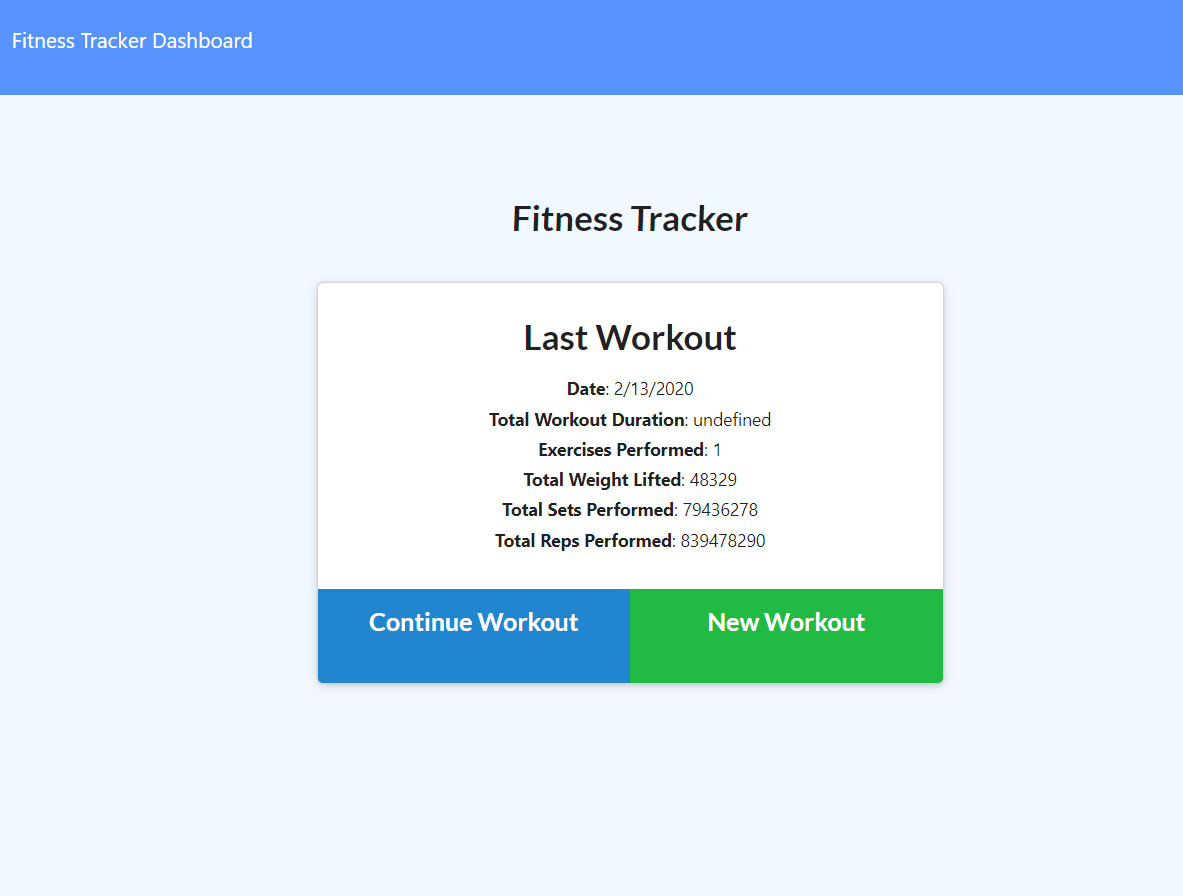
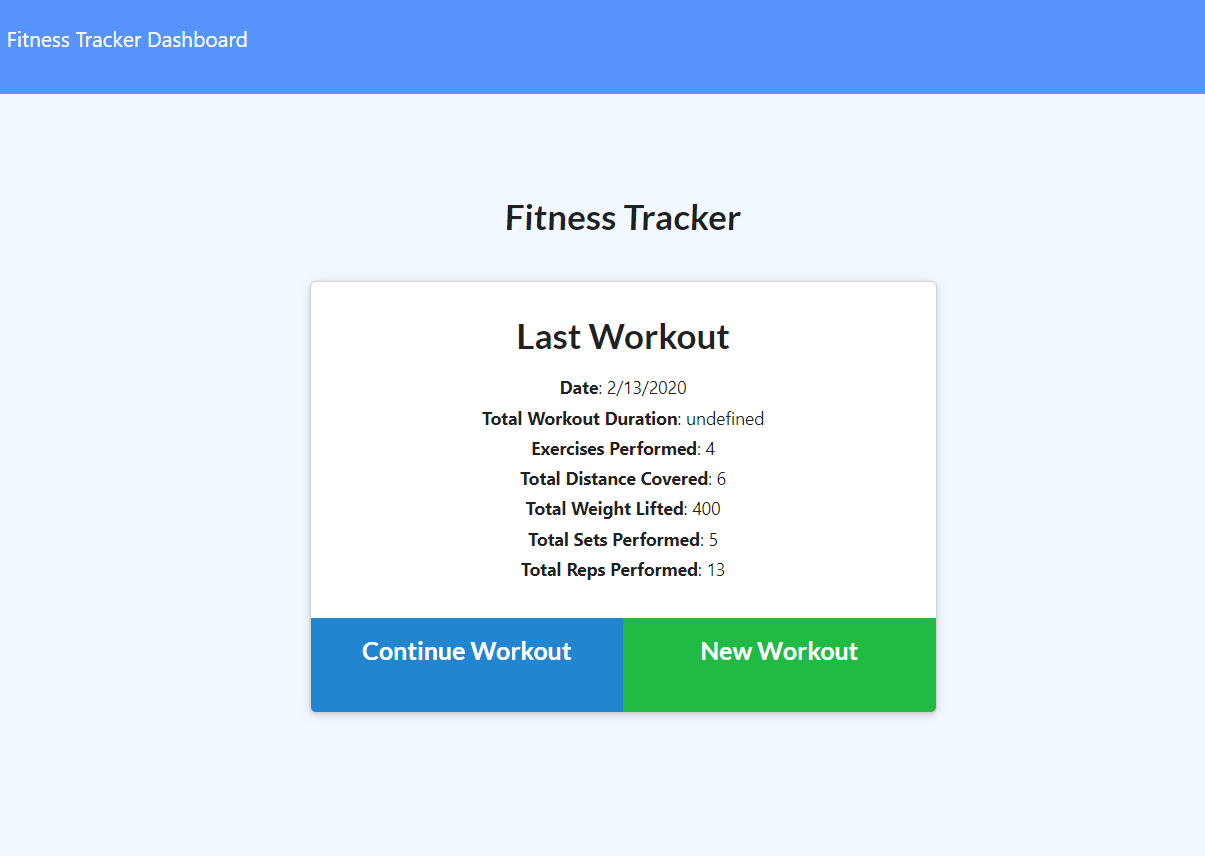
working on duration function

diff --git a/public/stats.js b/public/stats.js
@@ -11,8 +11,8 @@ fetch("/api/workouts/range")
 
 API.getWorkoutsInRange()
 
-  function generatePalette() {
-    const arr = [
+function generatePalette() {
+  const arr = [
     "#003f5c",
     "#2f4b7c",
     "#665191",
@@ -32,7 +32,7 @@ API.getWorkoutsInRange()
   ]
 
   return arr;
-  }
+}
 function populateChart(data) {
   let durations = duration(data);
   let pounds = calculateTotalWeight(data);
@@ -187,14 +187,17 @@ function populateChart(data) {
 }
 
 function duration(data) {
-  let durations = [];
-
+  let durationsArray = [];
+  let durations = 0;
   data.forEach(workout => {
     workout.exercises.forEach(exercise => {
-      durations.push(exercise.duration);
+      durationsArray.push(exercise.duration);
     });
   });
-
+  // This returns an array of numbers-- we have to add each number to get total duration.
+  for (let i = 0; i < durationsArray.length; i++) {
+    durations += durationsArray[i].value;
+  };
   return durations;
 }
 
@@ -218,6 +221,6 @@ function workoutNames(data) {
       workouts.push(exercise.name);
     });
   });
-  
+
   return workouts;
 }

diff --git a/models/Workout.js b/models/Workout.js
@@ -18,7 +18,7 @@ const WorkoutSchema = new Schema({
             required: "Please name this exercise."
         },
         distance: Number,
-        duration: Number,
+        duration: { type: Number, required: "Please input your time in minutes." },
         weight: Number,
         sets: Number,
         reps: Number
